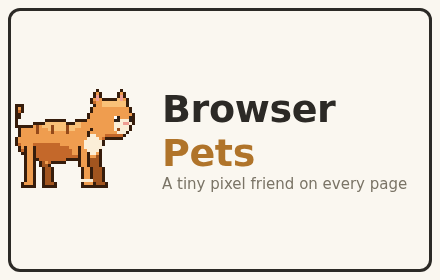
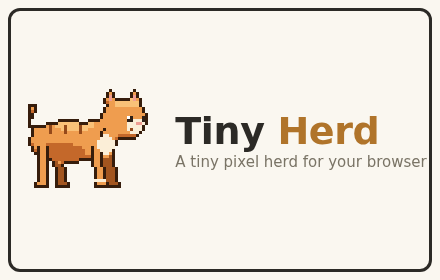
rename to Tiny Herd: docs and name-bearing store assets

Changed region(s): [[0.0295, 0.3143, 0.975, 0.6857], [0.3545, 0.6286, 0.9455, 0.6857]]

diff --git a/privacy.md b/privacy.md
@@ -1,8 +1,8 @@
-# Browser Pets — Privacy Policy
+# Tiny Herd — Privacy Policy
 
 _Last updated: 6 August 2026_
 
-Browser Pets is a virtual pet that lives at the bottom of your web pages.
+Tiny Herd is a virtual pet that lives at the bottom of your web pages.
 It is designed to work **entirely on your device**. No data is transmitted,
 collected, or sold — there are no servers, no analytics, and no tracking of
 any kind.
@@ -57,7 +57,7 @@ it straight to your downloads. It is generated locally and never uploaded.
 ## Contact
 
 Questions or concerns: open an issue at
-[github.com/gtrtuugii/chrome-pets-public](https://github.com/gtrtuugii/chrome-pets-public/issues)
+[github.com/gtrtuugii/tiny-herd-public](https://github.com/gtrtuugii/tiny-herd-public/issues)
 or email **chobydev@gmail.com**.
 
 Changes to this policy will be posted on this page with an updated date.

diff --git a/README.md b/README.md
@@ -1,4 +1,4 @@
-# 🐾 Browser Pets
+# 🐾 Tiny Herd
 
 **A tiny pixel pet that lives at the bottom of every page.**
 
@@ -7,7 +7,7 @@ mood strikes, and levels up as you browse. Occasionally it announces useful
 things — a finished download, new unread messages — in a little speech
 bubble. That's it. That's the extension.
 
-![Browser Pets](assets/promo-tile.png)
+![Tiny Herd](assets/promo-tile.png)
 
 ## Get it
 
@@ -35,5 +35,5 @@ zero data collection.** Full details: [privacy policy](privacy.md).
 
 ## Feedback & support
 
-- 🐛 Bugs & ideas: [GitHub issues](https://github.com/gtrtuugii/chrome-pets-public/issues)
+- 🐛 Bugs & ideas: [GitHub issues](https://github.com/gtrtuugii/tiny-herd-public/issues)
 - ✉ Email: chobydev@gmail.com
